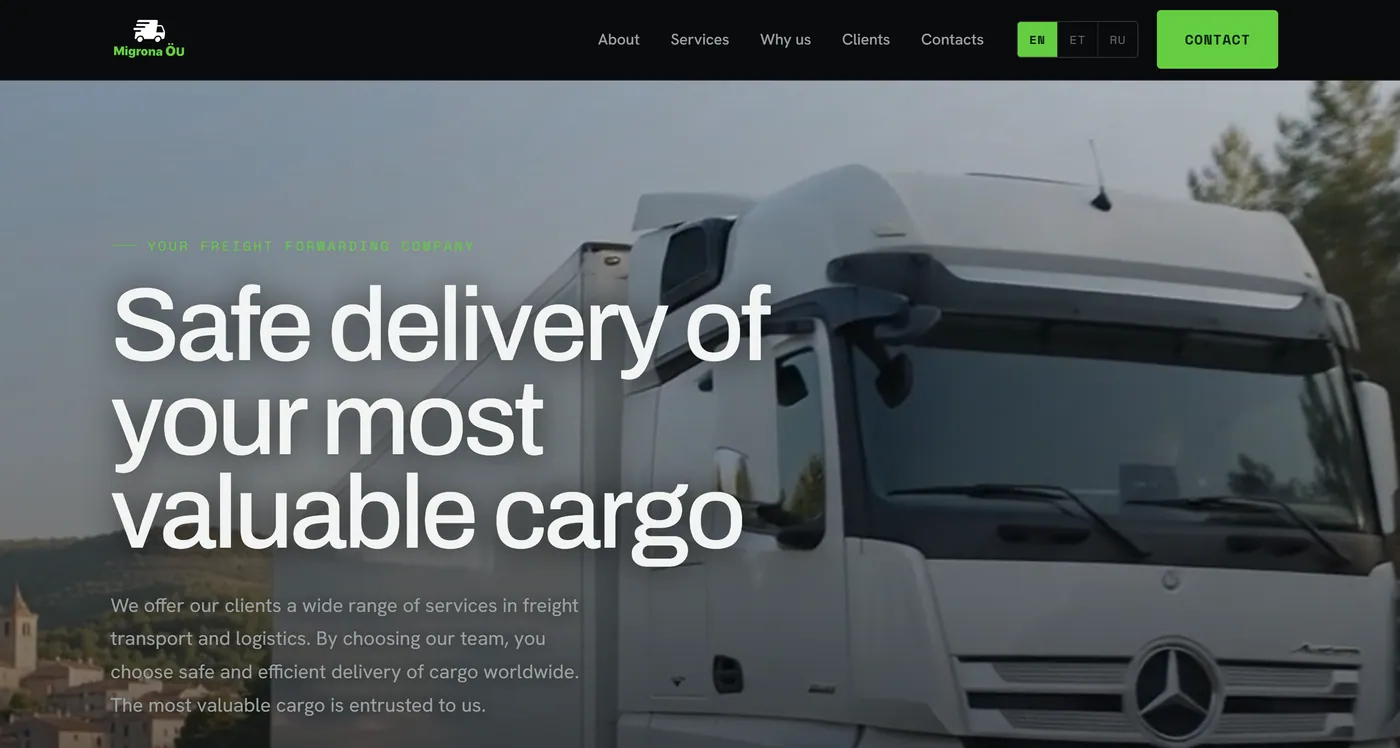
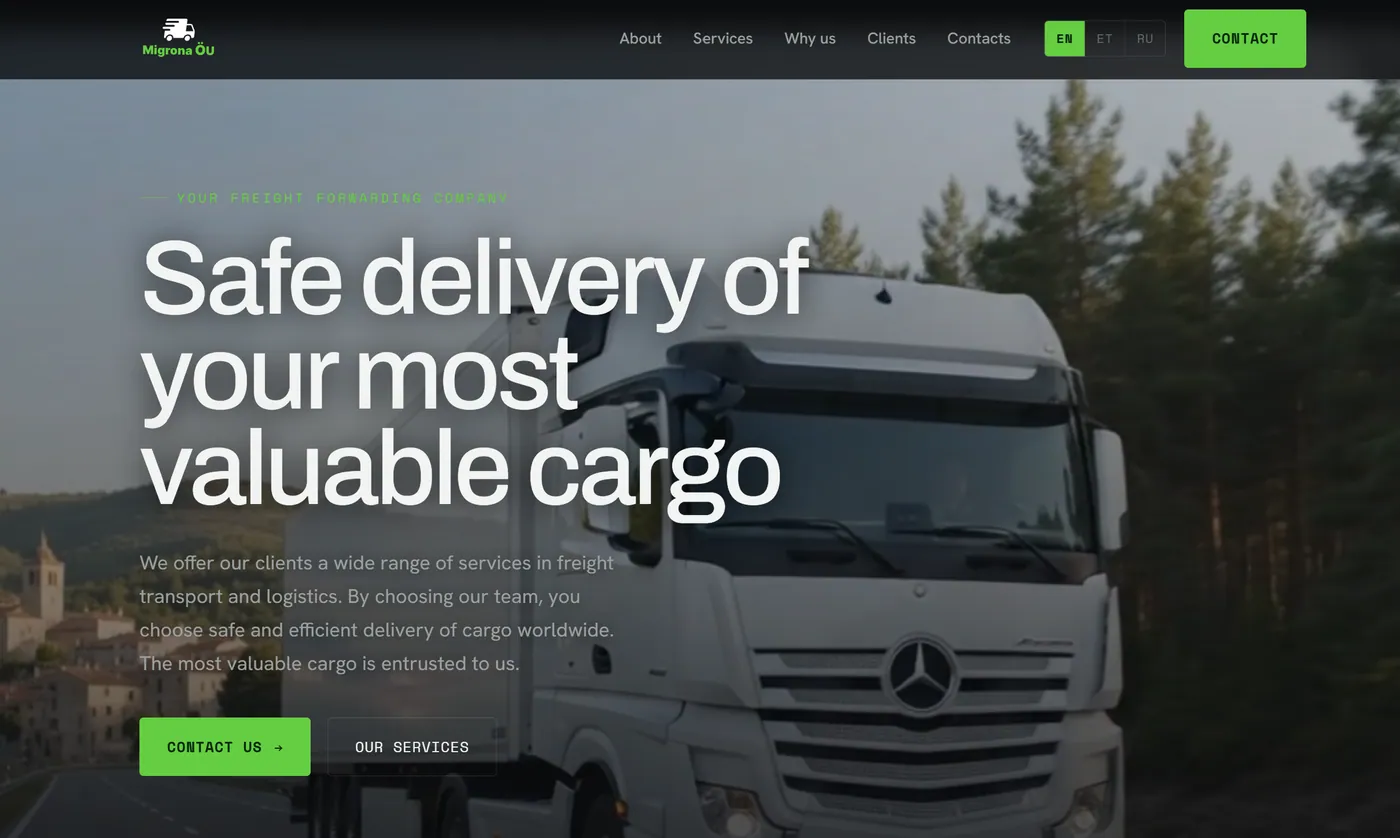
Replace the Migrona screenshot
New source (migronauo-estonia-case.png, 2420x1448) swapped in for the old
one, re-encoded to 1400x838 WebP at 52 KB - 2360 KB down to 52 KB.

The new capture has a different aspect ratio to the old one (1.671 against
1.872), so the width and height attributes on all three tags - homepage grid,
portfolio index and case-study hero - were updated from 748 to 838. Left
stale they would have reserved the wrong space and shifted the layout as the
image loaded.

The superseded source file is removed; nothing ever linked to it.

diff --git a/index.html b/index.html
@@ -304,7 +304,7 @@
       </a>
       <a href="./work/migrona/" class="card project project--wide">
         <div class="shot" style="background:var(--dark);border-color:var(--dark-border);">
-          <img src="./images/work/migrona.webp" alt="Migrona OÜ freight forwarding website homepage" loading="lazy" width="1400" height="748">
+          <img src="./images/work/migrona.webp" alt="Migrona OÜ freight forwarding website homepage" loading="lazy" width="1400" height="838">
         </div>
         <div class="project-meta">
           <div><div class="d">Migrona OÜ</div><div class="sub">International freight forwarding · Tallinn, EE</div></div>

diff --git a/work/migrona/index.html b/work/migrona/index.html
@@ -104,7 +104,7 @@
         <p class="lead">No map pack, no reviews to collect, no impulse bookings. A buyer who compares four forwarders on reliability and insurance before emailing any of them. Eight layers, assembled in a completely different order.</p>
       </div>
       <div class="shot">
-        <img src="../../images/work/migrona.webp" alt="Migrona OÜ website shown on desktop and mobile" loading="eager" width="1400" height="748">
+        <img src="../../images/work/migrona.webp" alt="Migrona OÜ website shown on desktop and mobile" loading="eager" width="1400" height="838">
       </div>
     </div>
     <div class="wrap factbar">

diff --git a/work/index.html b/work/index.html
@@ -183,7 +183,7 @@
 
       <a href="../work/migrona/" class="card project project--wide">
         <div class="shot" style="background:var(--dark);border-color:var(--dark-border);">
-          <img src="../images/work/migrona.webp" alt="Migrona OÜ freight forwarding website homepage" loading="lazy" width="1400" height="748">
+          <img src="../images/work/migrona.webp" alt="Migrona OÜ freight forwarding website homepage" loading="lazy" width="1400" height="838">
         </div>
         <div class="project-meta">
           <div>
